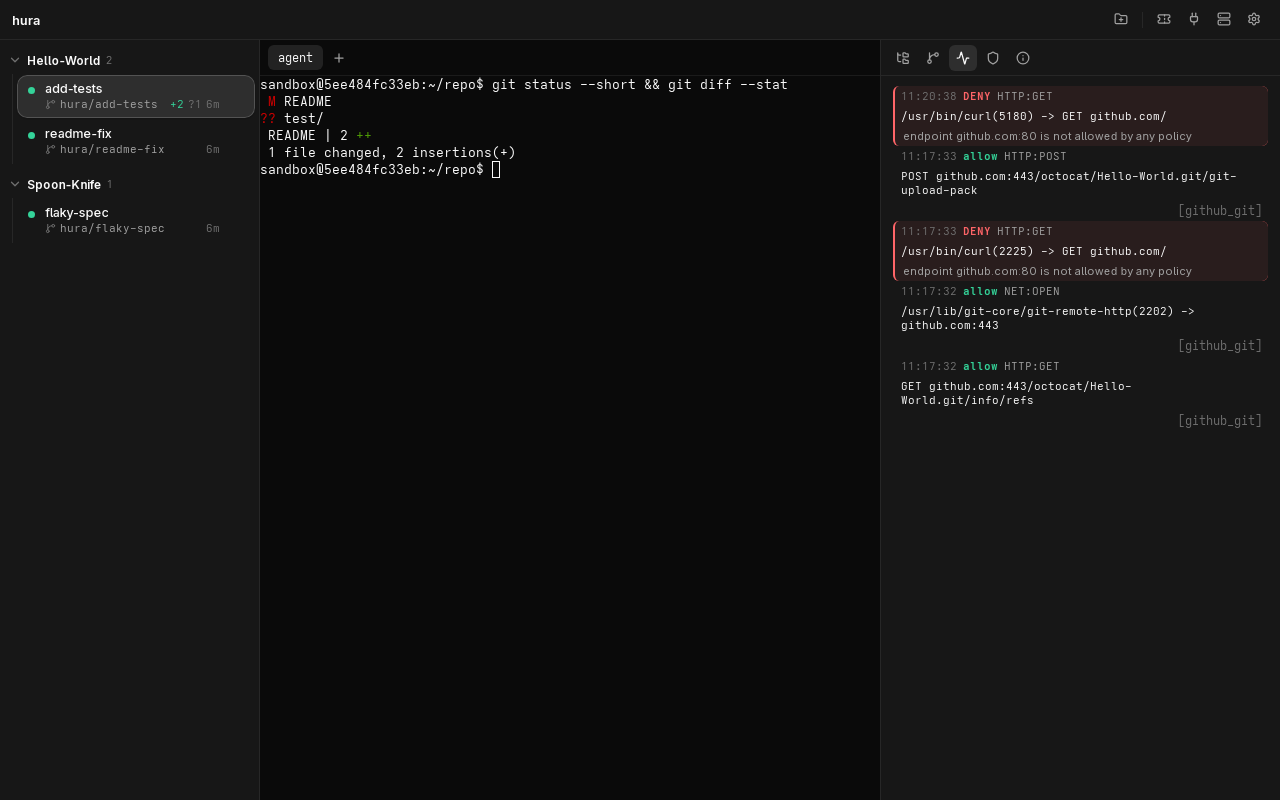
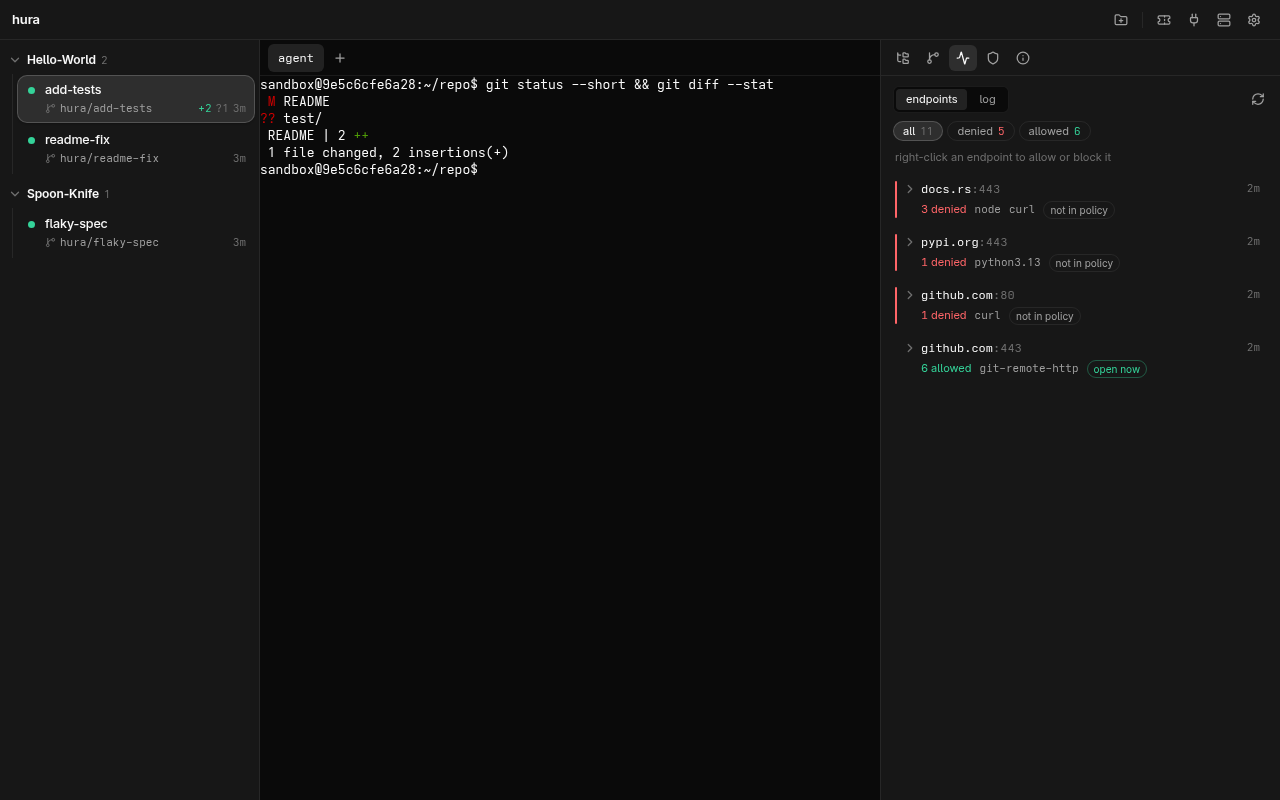
The README shows the events pane as it is now
The screenshots were of the feed before it was folded by endpoint, and
the text under them described a list of lines. They are retaken against
the same kind of throwaway sessions as before -- octocat/Hello-World and
octocat/Spoon-Knife on a real gateway, deleted after -- with real
traffic in one of them: git fetching from github.com, and curl, node and
Python refused at github.com:80, docs.rs and PyPI.

`events.png` is the endpoints view; `events-menu.png` is new, the
right-click menu on the docs.rs denial; `workspace.png` and `policy.png`
are retaken from the same sessions so the window matches. The isolation
bullet says a denial can be acted on from the window now, not only read.

Rendered from the server's own replies, captured with hura-client, in
Chromium at the window's size, with the one unrelated session on the
server left out of the tree.

diff --git a/README.md b/README.md
@@ -27,15 +27,24 @@ with comments that go back to the agent, and git on the right.
 ![The hura workspace: the Hello-World and Spoon-Knife projects and their worktrees on the left, the agent's terminal in the middle showing git status in the sandbox, and the git pane on the right listing the two changed files](docs/images/workspace.png)
 
 **The isolation is not a claim, it is a pane.** Every allow and deny the gateway
-made, newest first, each tagged with the rule that decided it. At the top, what
-`curl` gets when it reaches for the very host `git` is cloning from:
+made, folded by where it was going: how often each endpoint was refused or let
+through, by which binaries, and whether the policy opens it now. Here `git` has
+been fetching from github.com all along, while `curl` reaching for the same host
+over plain HTTP, `node` and `curl` going for docs.rs, and Python going for PyPI
+were all refused:
 
-![The events feed for a session: a denied GET to github.com from /usr/bin/curl at the top, and below it the allowed git requests to github.com:443 that cloned the repository, each tagged with the github_git rule](docs/images/events.png)
+![The events pane for a session, grouped by endpoint: docs.rs:443 denied three times to node and curl, pypi.org:443 denied to python3.13, github.com:80 denied to curl, each marked not in policy, and github.com:443 allowed six times to git-remote-http and marked open now](docs/images/events.png)
+
+A denial is something to act on, not only to read. Right-click it to open the
+endpoint to the binaries that were refused -- for this session, or for every
+new session too -- or right-click an open one to block it:
+
+![The context menu on the denied docs.rs:443 row: allow in this session, allow in every new session too, allow… to choose binaries, and copy endpoint](docs/images/events-menu.png)
 
 The rules behind those decisions are what the policy pane shows -- each one an
 endpoint, the binaries it is granted to, and how much of it they get:
 
-![The policy pane: the feature-work template's rules, each naming an endpoint such as github.com:443 and the specific binaries allowed to reach it](docs/images/policy.png)
+![The policy pane: the feature-work template's rules, each naming an endpoint such as dev.azure.com:443 or api.anthropic.com:443 and the specific binaries allowed to reach it, with the method and path rules under the ones that have them](docs/images/policy.png)
 
 ## What it does
 
@@ -43,10 +52,11 @@ endpoint, the binaries it is granted to, and how much of it they get:
   works on `hura/<name>`; your worktree is never handed over.
 - **Credentials the sandbox never sees.** OpenShell providers hold the tokens
   and the gateway substitutes them into outgoing requests.
-- **Isolation you can look at.** The two panes above are one click away in the
-  window, and `hurad policy` / `hurad events` on the command line. A rule can be
-  widened for a running session from either. This is the part an ADE built on
-  git worktrees has no equivalent for.
+- **Isolation you can look at, and change.** The panes above are one click away
+  in the window, and `hurad policy` / `hurad events` on the command line. A
+  denied endpoint is opened -- for one binary, for this session or every new one
+  -- from a right-click on the denial, and an open one is blocked the same way.
+  This is the part an ADE built on git worktrees has no equivalent for.
 - **Several agents at once, without babysitting.** A session blocked on a
   permission prompt says so in the list -- and the window sends an OS
   notification the moment it starts waiting, so watching costs nothing at all.
